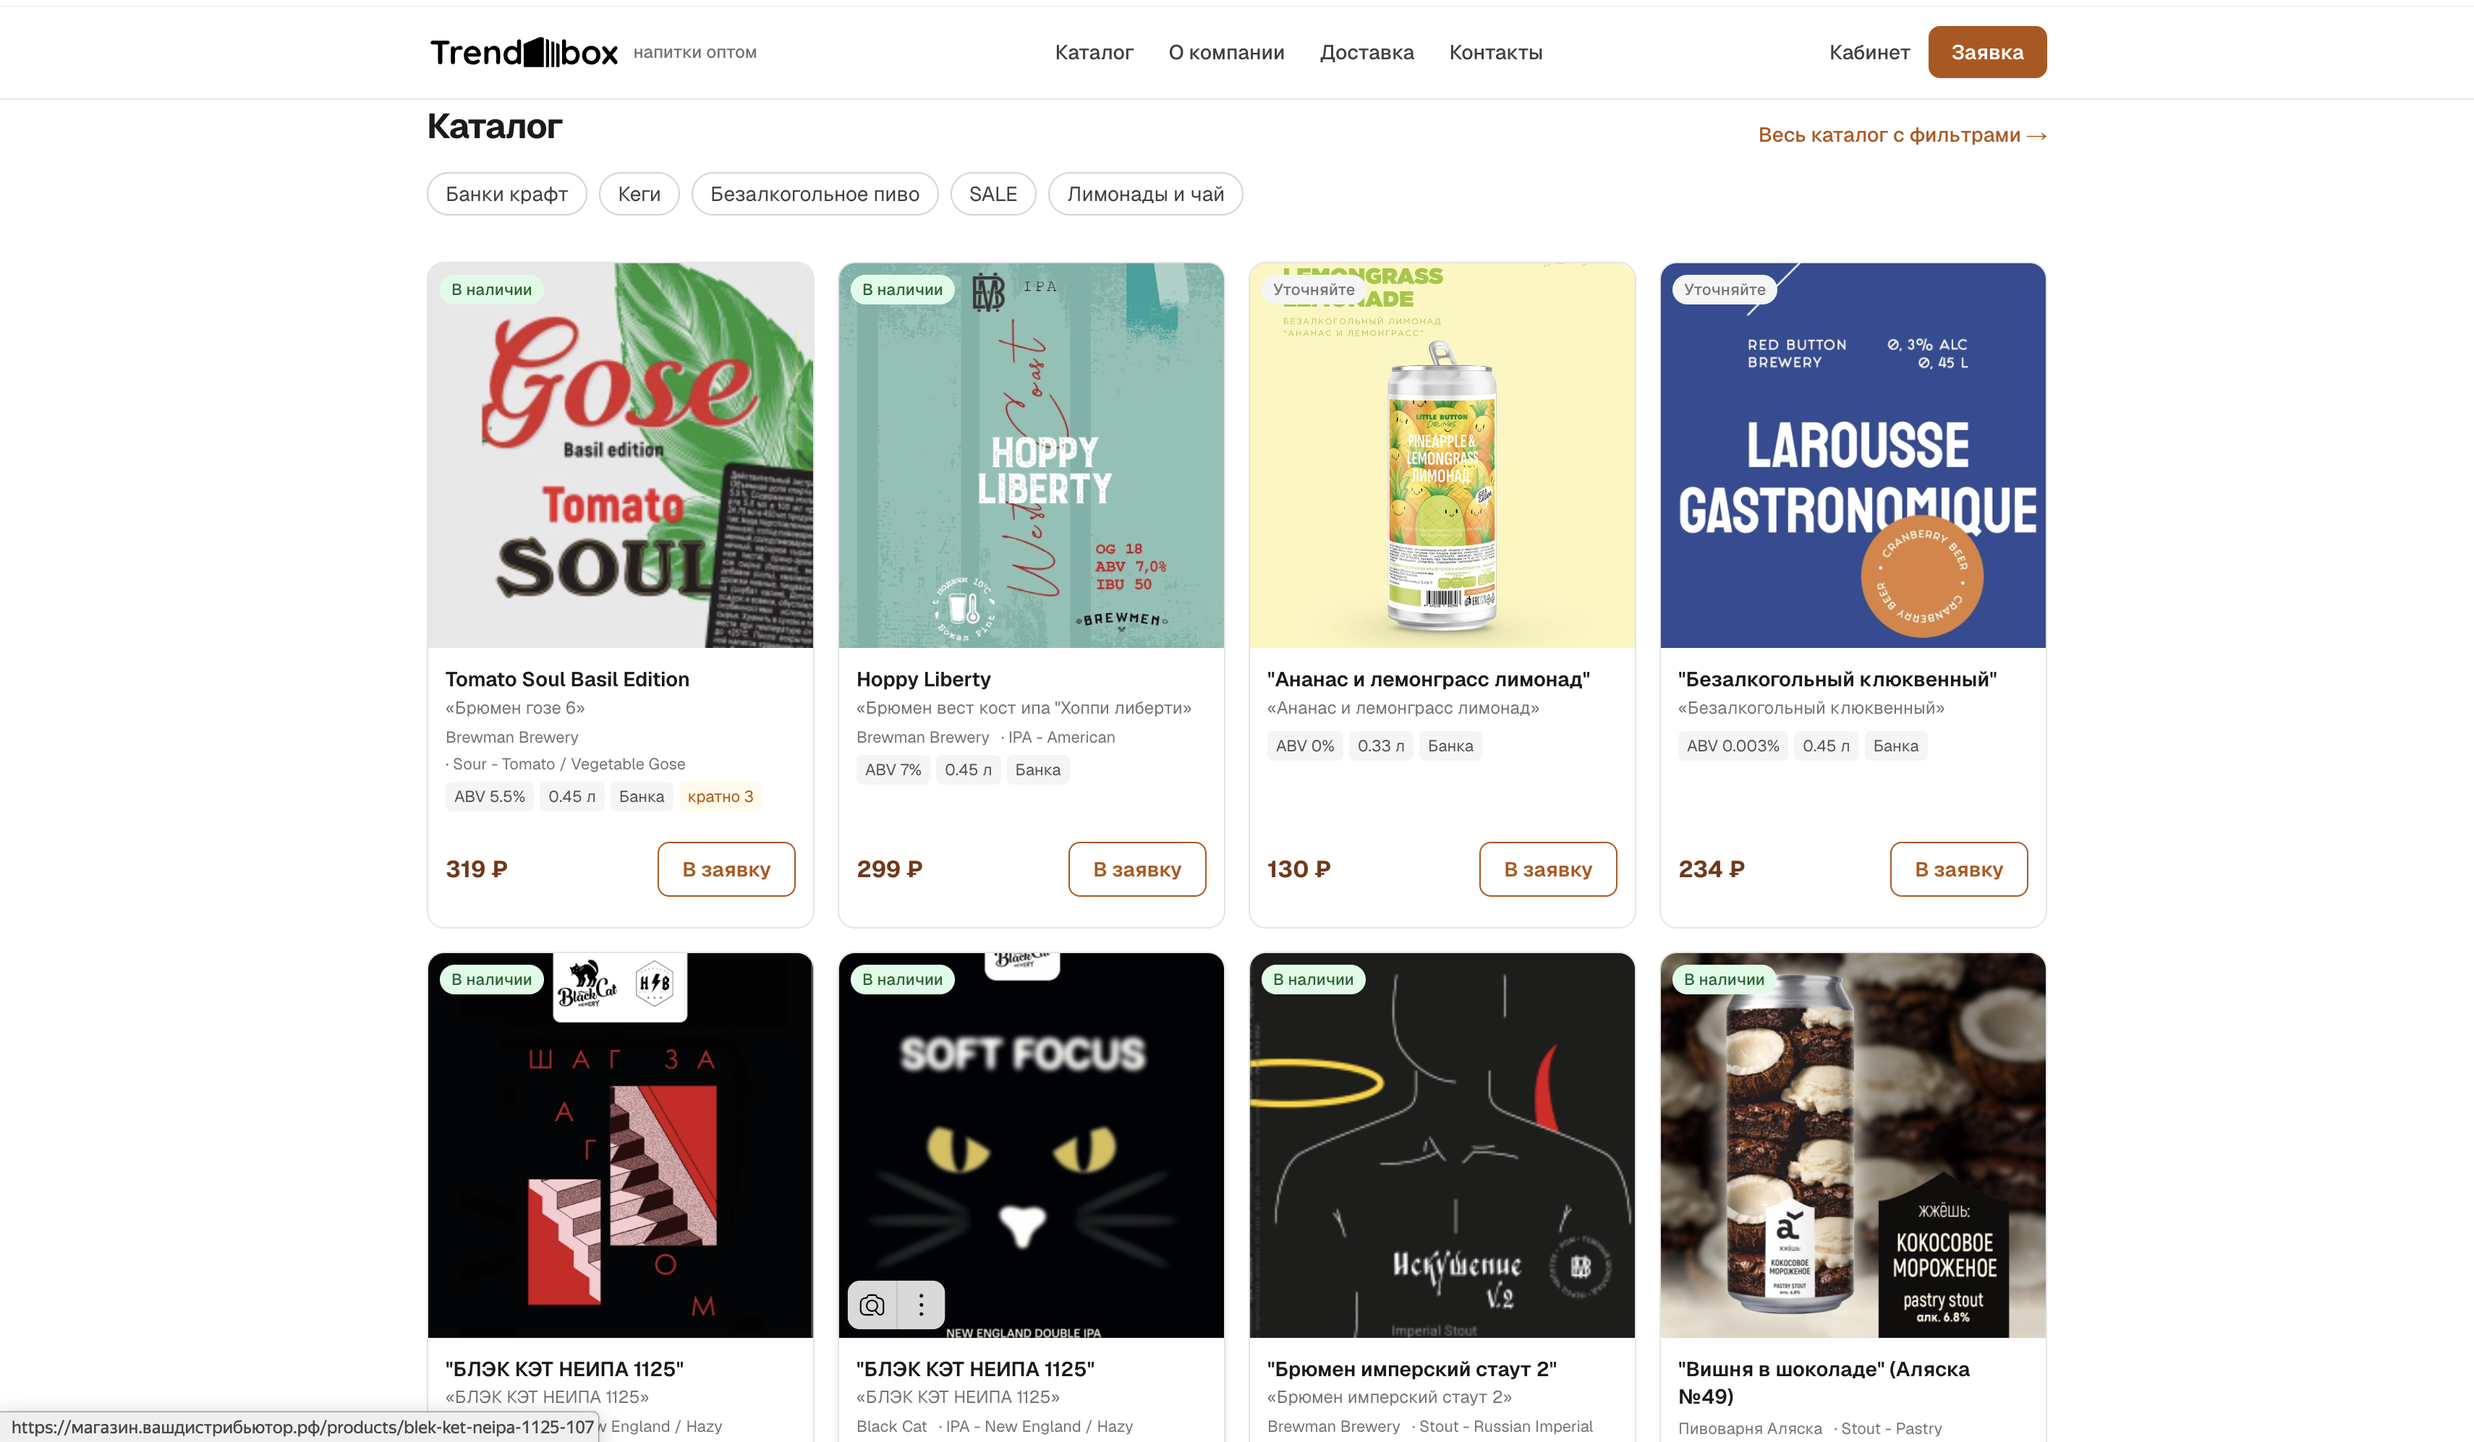
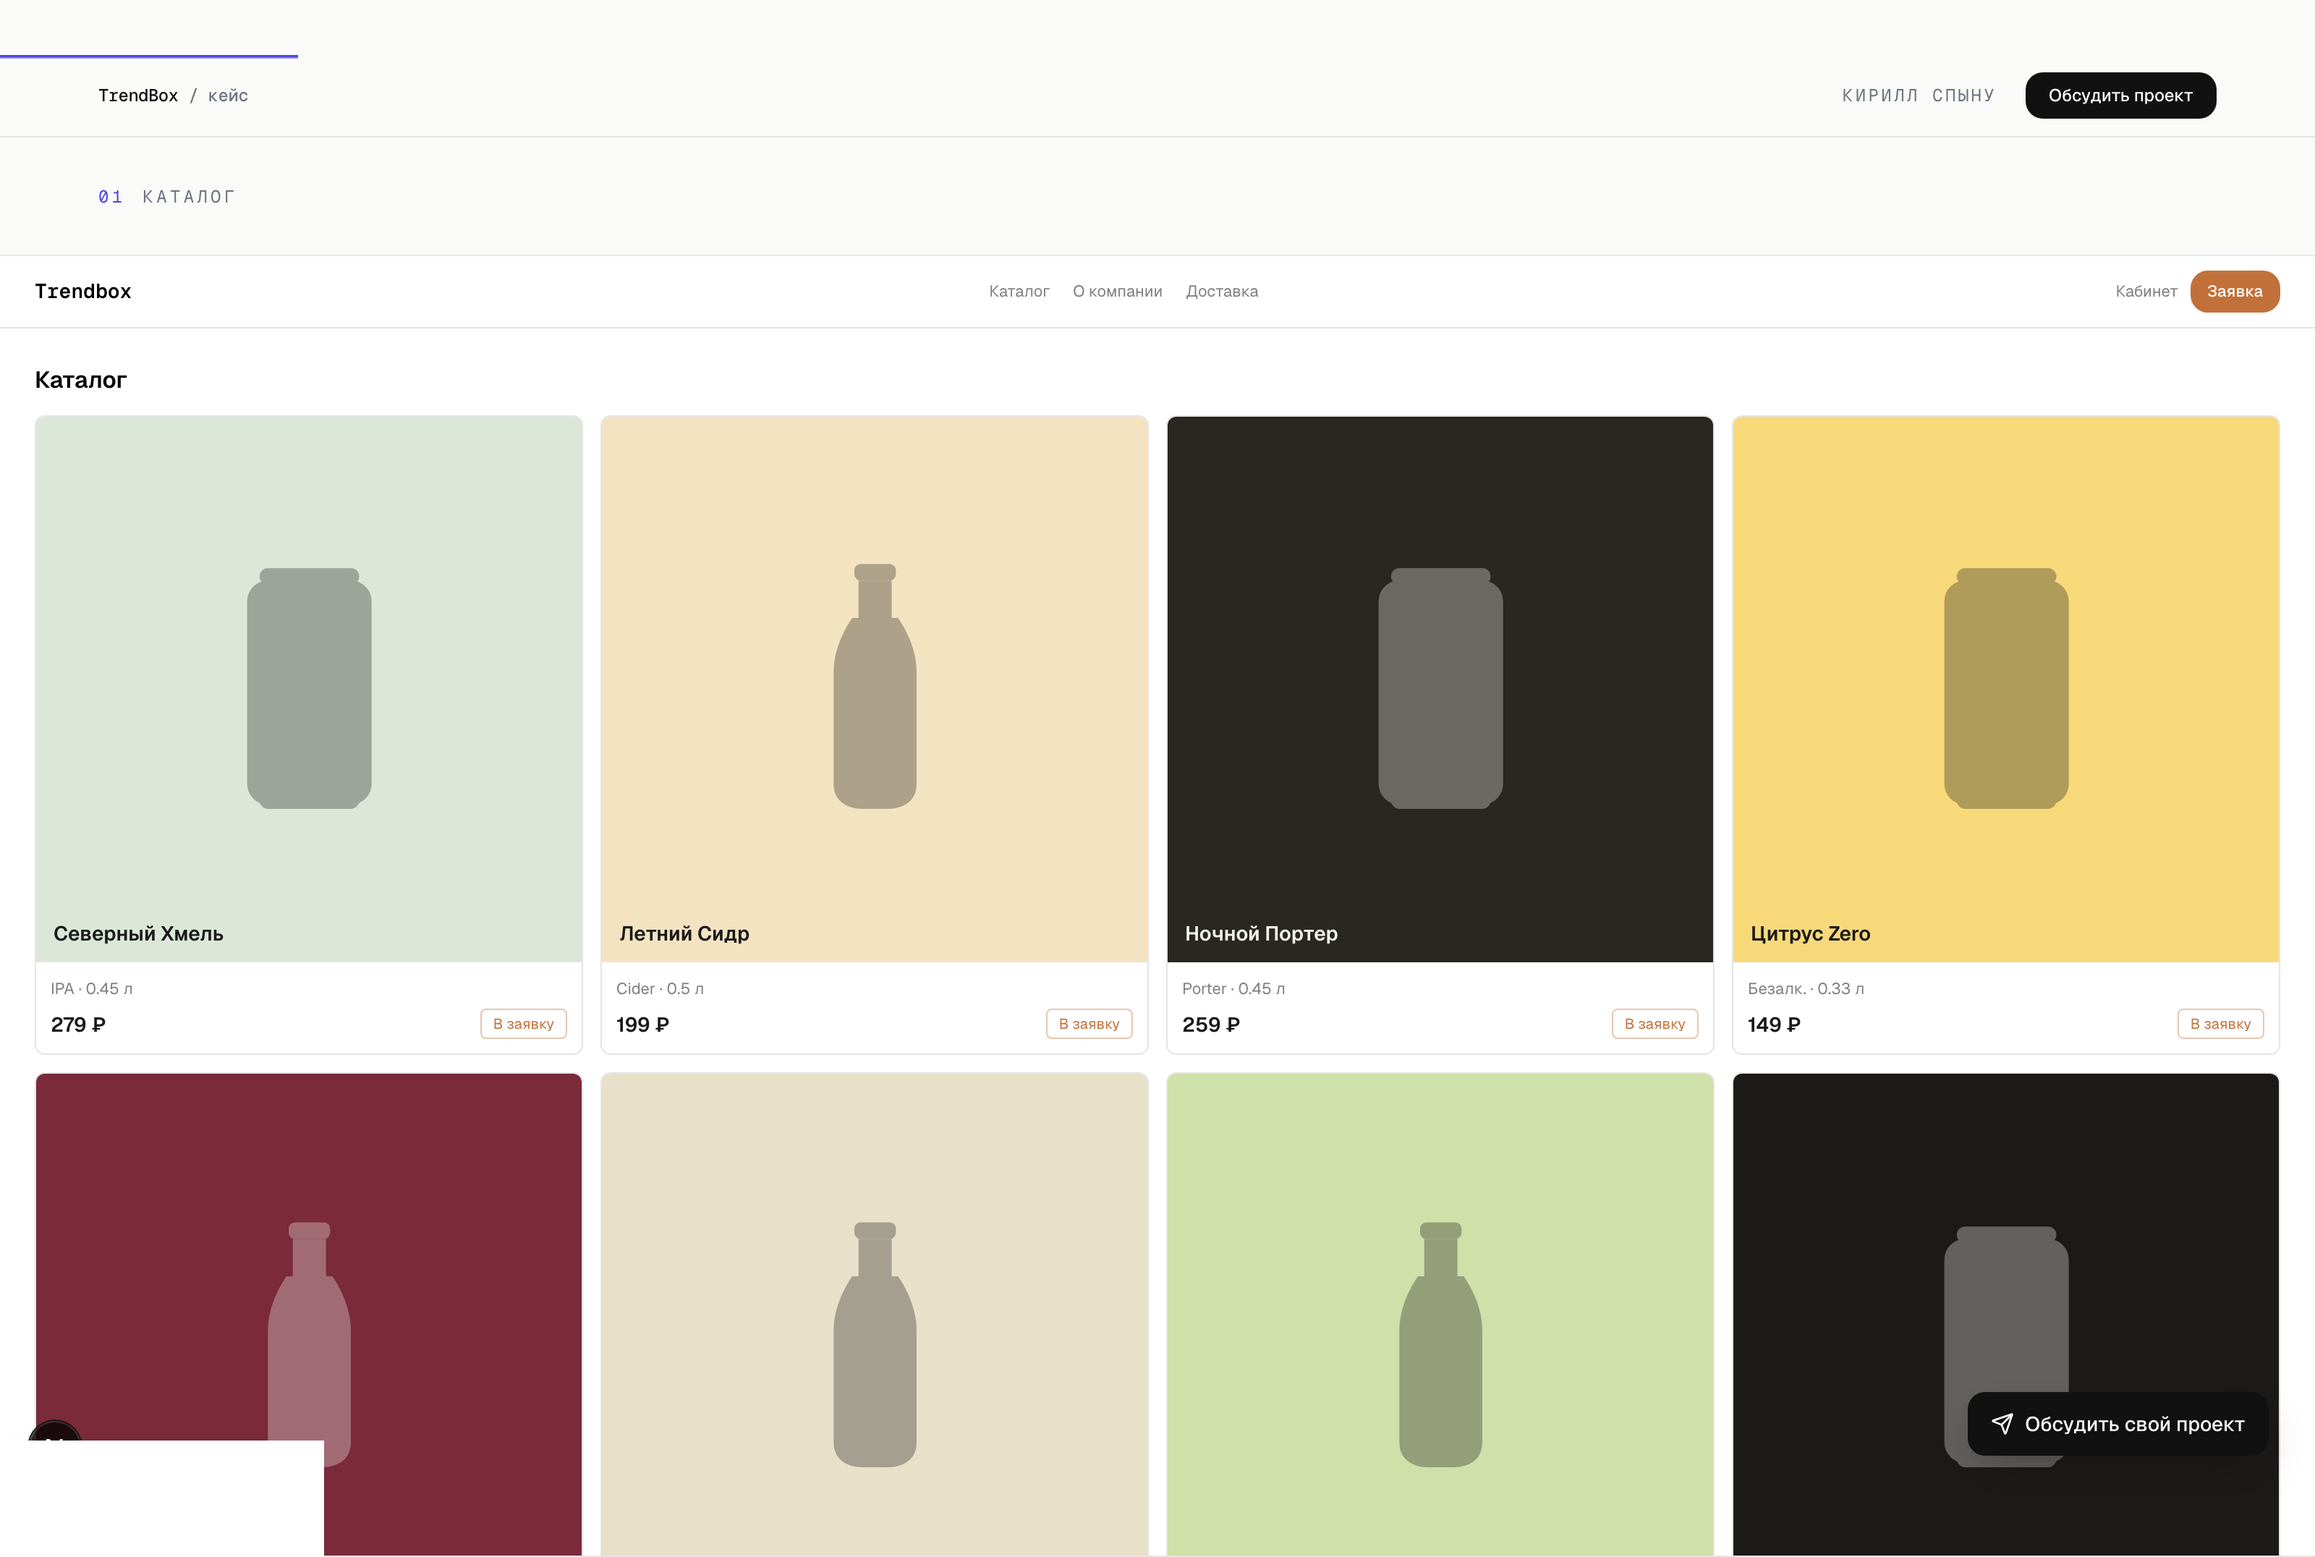
TrendBox: заменить реальные скриншоты на mock-реконструкцию интерфейса
Экраны теперь взяты из отдельного кейс-сайта wialux12/trendbox-case-study,
который специально воссоздаёт интерфейс TrendBox на полностью вымышленных
данных (Иван Петров, ООО «Ромашка», ИНН 0000000000 и т.п.) — реальный
каталог и клиентская база дистрибьютора нигде не публикуются.

- Обложка: витрина на MacBook + каталог на iPhone
- Каталог: сетка карточек товаров
- Мобильный опыт: витрина + уведомление Telegram-бота о заявке
- Админ-панель: товары, Telegram/MAX-рассылка, личный кабинет клиента

Добавлено поле Project.galleryNote с пояснением над галереей, что экраны
собраны на вымышленных данных. Стек дополнен MAX Bot API, текст решения
упоминает MAX наравне с Telegram.

diff --git a/src/content/projects.ts b/src/content/projects.ts
@@ -21,29 +21,32 @@ export const projects: Project[] = [
       "PostgreSQL",
       "Redis",
       "Telegram Bot API",
+      "MAX Bot API",
     ],
     cover: {
-      src: "/work/trendbox/01-homepage.png",
-      alt: "TrendBox — главная страница витрины с каталогом напитков",
+      src: "/work/trendbox/01-hero.png",
+      alt: "TrendBox — витрина на MacBook и мобильный каталог на iPhone",
     },
     gallery: [
       {
-        src: "/work/trendbox/01-homepage.png",
-        alt: "Главная страница: оффер, ключевые цифры, витрина каталога",
+        src: "/work/trendbox/01-hero.png",
+        alt: "Витрина на MacBook и мобильный каталог на iPhone",
       },
       {
         src: "/work/trendbox/02-catalog.png",
-        alt: "Каталог с фильтрами по категориям и оптовыми ценами",
+        alt: "Каталог с карточками товаров и оптовыми ценами",
       },
       {
-        src: "/work/trendbox/04-admin-products.png",
-        alt: "Админ-панель: каталог из 750+ товаров",
+        src: "/work/trendbox/03-mobile-telegram.png",
+        alt: "Мобильная витрина и уведомление Telegram-бота о принятой заявке",
       },
       {
-        src: "/work/trendbox/05-admin-telegram.png",
-        alt: "Массовая Telegram-рассылка прямо из админ-панели",
+        src: "/work/trendbox/04-admin-dashboard.png",
+        alt: "Админ-панель: товары, Telegram/MAX-рассылка, личный кабинет клиента",
       },
     ],
+    galleryNote:
+      "Экраны ниже — реконструкция интерфейса с вымышленными данными: реальный каталог и клиентская база дистрибьютора не публикуются.",
     links: [{ label: "Сайт", href: "https://магазин.вашдистрибьютор.рф/" }],
     metrics: [
       { value: "750+", label: "товаров в каталоге" },
@@ -58,7 +61,7 @@ export const projects: Project[] = [
       "Классическая e-commerce-механика витрины — каталог, фильтры, карточка товара — переведена в RFQ-логику (Request for Quote): покупатель собирает корзину-заявку, она уходит менеджеру, а счёт и отгрузка происходят вне сайта. Юридическое ограничение стало не багом UX, а осознанным продуктовым решением, зафиксированным отдельной ADR-записью.",
       "Личный кабинет B2B-клиента показывает то, что реально важно юрлицу: статус заявок, оптовые цены (видны только активированным юрлицам) и реквизиты компании — а не «избранное» и «историю просмотров», как в обычном интернет-магазине.",
       "Админ-панель заточена не под типовую CRM, а под конкретные боли дистрибьютора: импорт каталога и остатков прямо из Excel-выгрузок 1С — без ручного набора 750+ позиций, настройка слайдера на главной, работа с юрлицами и заявками.",
-      "Отдельный блок — Telegram: авторизация клиентов, бот-уведомления о статусе заявки и инструмент массовой рассылки прямо из админки — без email-рассылок, которые B2B-клиенты из мессенджеров всё равно не открывают.",
+      "Отдельный блок — Telegram и MAX: авторизация клиентов, бот-уведомления о статусе заявки и инструмент массовой рассылки прямо из админки — без email-рассылок, которые B2B-клиенты из мессенджеров всё равно не открывают.",
     ],
     contribution:
       "Спроектировал архитектуру целиком: разделение витрины и коммерческого бэкенда, схему модулей Medusa (заявки, баннеры, юрлица, импорт), RFQ-флоу вместо оплаты, интеграцию с Telegram Bot API. Веду разработку витрины и бэкенда сам, от ADR до продакшен-кода.",

diff --git a/src/components/case/case-gallery.tsx b/src/components/case/case-gallery.tsx
@@ -8,9 +8,11 @@ import type { ProjectImage, ProjectImageFit } from "@/types/content";
 export function CaseGallery({
   gallery,
   fit = "cover",
+  note,
 }: {
   gallery: ProjectImage[];
   fit?: ProjectImageFit;
+  note?: string;
 }) {
   if (gallery.length < 2) return null;
 
@@ -19,7 +21,12 @@ export function CaseGallery({
   return (
     <section className="py-16 md:py-20">
       <Container className="flex flex-col gap-10">
-        <SectionHeading index="—" label="Экраны" title="Как это выглядит" />
+        <SectionHeading
+          index="—"
+          label="Экраны"
+          title="Как это выглядит"
+          description={note}
+        />
 
         <RevealGroup
           className={cn(

diff --git a/src/types/content.ts b/src/types/content.ts
@@ -41,6 +41,8 @@ export interface Project {
   /** Пара скриншотов для парного показа в блоке обложки (режим "contain") — заполняет кадр, не оставляя его пустым при одном узком мобильном экране. */
   coverPair?: [ProjectImage, ProjectImage];
   gallery: ProjectImage[];
+  /** Пояснение над галереей — например, что экраны собраны на вымышленных данных. */
+  galleryNote?: string;
   imageFit?: ProjectImageFit;
   links: ProjectLink[];
   metrics: ProjectMetric[];

diff --git a/src/app/work/[slug]/page.tsx b/src/app/work/[slug]/page.tsx
@@ -88,7 +88,11 @@ export default async function ProjectPage({
         <p>{project.result}</p>
       </CaseSection>
 
-      <CaseGallery gallery={project.gallery} fit={project.imageFit} />
+      <CaseGallery
+        gallery={project.gallery}
+        fit={project.imageFit}
+        note={project.galleryNote}
+      />
 
       <CaseNav project={nextProject} />
     </>
